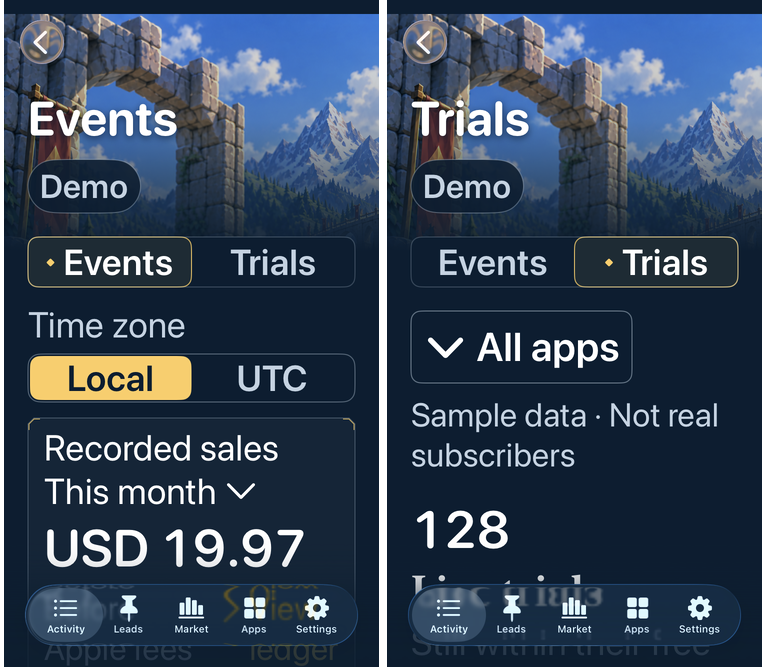
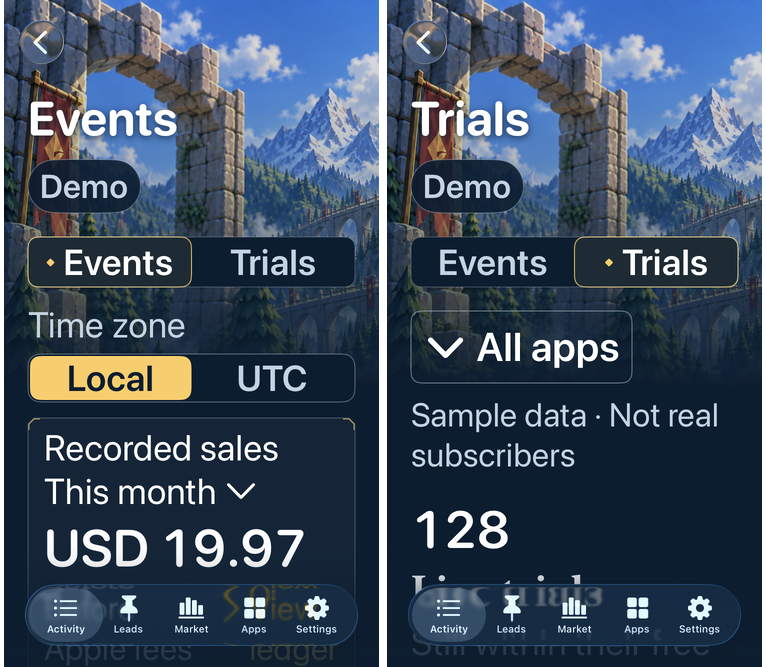
Extend Events and Trials landscape behind system chrome
Draw a shared full-screen scenic background behind the status and navigation bars while keeping controls inside the native safe area. Preserve native back navigation and update default/accessibility simulator captures.

Changed region(s): [[0.0, 0.0, 1.0, 0.5397], [0.7807, 0.4198, 0.8107, 0.4798], [0.1201, 0.5097, 0.1501, 0.5397]]

diff --git a/ios/IAPNotifications/Trials.swift b/ios/IAPNotifications/Trials.swift
@@ -163,7 +163,7 @@ struct TrialsDashboardView: View {
                 ScrollView {
                     VStack(alignment: .leading, spacing: 24) {
                         VStack(alignment: .leading, spacing: 16) {
-                            ActivitySceneHeader(title: "Trials", badge: model.isPreviewMode ? "Demo" : model.selectedEnvironment.rawValue, topSpacing: 16)
+                            ActivitySceneHeader(title: "Trials", badge: model.isPreviewMode ? "Demo" : model.selectedEnvironment.rawValue, topSpacing: 16, showsLandscape: false)
                             ActivitySectionPicker(selection: $section)
                         }
                         filters
@@ -182,13 +182,13 @@ struct TrialsDashboardView: View {
                     }.padding(.horizontal, 24).padding(.bottom, 28)
                 }
                 .refreshable { await trials.load(model) }
-                .background(TrialsStyle.navy.ignoresSafeArea())
+                .background { ActivityPageBackground() }
             }
             .foregroundStyle(.white).tint(TrialsStyle.gold)
             .navigationTitle("")
             .navigationBarTitleDisplayMode(.inline)
             .toolbar(.visible, for: .navigationBar)
-            .toolbarBackground(TrialsStyle.navy, for: .navigationBar)
+            .toolbarBackground(.hidden, for: .navigationBar)
             .toolbarColorScheme(.dark, for: .navigationBar)
             .toolbarBackground(TrialsStyle.navy, for: .tabBar)
             .toolbarBackground(.visible, for: .tabBar)
@@ -462,9 +462,10 @@ struct ActivitySceneHeader: View {
     let badge: String
     var topSafeArea: CGFloat = 0
     var topSpacing: CGFloat = 80
+    var showsLandscape = true
 
     var body: some View {
-        QuestScenicHeader(title: title, topSafeArea: topSafeArea, topSpacing: topSpacing) {
+        QuestScenicHeader(title: title, topSafeArea: topSafeArea, topSpacing: topSpacing, showsLandscape: showsLandscape) {
             Text(badge).font(.caption.weight(.semibold))
                 .foregroundStyle(QuestStyle.muted)
                 .padding(.horizontal, 12).padding(.vertical, 7)
@@ -479,6 +480,7 @@ struct QuestScenicHeader<Trailing: View>: View {
     var systemImage: String? = nil
     var topSafeArea: CGFloat = 0
     var topSpacing: CGFloat = 80
+    var showsLandscape = true
     @ViewBuilder var trailing: Trailing
     @Environment(\.dynamicTypeSize) private var typeSize
 
@@ -503,18 +505,44 @@ struct QuestScenicHeader<Trailing: View>: View {
         .padding(.top, topSpacing + topSafeArea).padding(.bottom, 8)
         .frame(maxWidth: .infinity, alignment: .leading)
         .background {
-            GeometryReader { geometry in
+            if showsLandscape {
+                GeometryReader { geometry in
+                    Image("QuestLandscape").resizable().scaledToFill()
+                        .frame(width: geometry.size.width + 48, height: geometry.size.height + 90, alignment: .top)
+                        .clipped()
+                        .overlay(LinearGradient(stops: [
+                            .init(color: QuestStyle.navy.opacity(0.1), location: 0),
+                            .init(color: QuestStyle.navy.opacity(0.3), location: 0.45),
+                            .init(color: QuestStyle.navy, location: 1)
+                        ], startPoint: .top, endPoint: .bottom))
+                        .offset(x: -24, y: -60)
+                }.allowsHitTesting(false).accessibilityHidden(true)
+            }
+        }
+    }
+}
+
+/// The artwork extends under system chrome; scroll content keeps its native safe area.
+struct ActivityPageBackground: View {
+    @ScaledMetric(relativeTo: .largeTitle) private var landscapeHeight: CGFloat = 260
+
+    var body: some View {
+        GeometryReader { geometry in
+            ZStack(alignment: .top) {
+                QuestStyle.navy
                 Image("QuestLandscape").resizable().scaledToFill()
-                    .frame(width: geometry.size.width + 48, height: geometry.size.height + 90, alignment: .top)
+                    .frame(width: geometry.size.width, height: landscapeHeight, alignment: .top)
                     .clipped()
                     .overlay(LinearGradient(stops: [
                         .init(color: QuestStyle.navy.opacity(0.1), location: 0),
                         .init(color: QuestStyle.navy.opacity(0.3), location: 0.45),
                         .init(color: QuestStyle.navy, location: 1)
                     ], startPoint: .top, endPoint: .bottom))
-                    .offset(x: -24, y: -60)
-            }.allowsHitTesting(false).accessibilityHidden(true)
+            }
         }
+        .ignoresSafeArea()
+        .allowsHitTesting(false)
+        .accessibilityHidden(true)
     }
 }
 

diff --git a/ios/IAPNotifications/IAPNotificationsApp.swift b/ios/IAPNotifications/IAPNotificationsApp.swift
@@ -435,7 +435,7 @@ struct ActivityView: View {
         Group {
             ScrollView {
                 VStack(alignment: .leading, spacing: 16) {
-                    ActivitySceneHeader(title: "Events", badge: model.isPreviewMode ? "Demo" : model.selectedEnvironment.rawValue, topSpacing: 16)
+                    ActivitySceneHeader(title: "Events", badge: model.isPreviewMode ? "Demo" : model.selectedEnvironment.rawValue, topSpacing: 16, showsLandscape: false)
                     ActivitySectionPicker(selection: $section)
                     if !model.isPreviewMode {
                         Picker("Environment", selection: $model.selectedEnvironment) {
@@ -535,14 +535,14 @@ struct ActivityView: View {
                     }
                 }.padding(.horizontal, 24).padding(.bottom, 24)
             }
-            .background(QuestStyle.navy)
+            .background { ActivityPageBackground() }
             .foregroundStyle(.white).tint(QuestStyle.gold)
             .refreshable { await model.loadActivity() }
             .onChange(of: model.selectedEnvironment) { _, _ in Task { await model.loadActivity() } }
             .navigationTitle("")
             .navigationBarTitleDisplayMode(.inline)
             .toolbar(.visible, for: .navigationBar)
-            .toolbarBackground(QuestStyle.navy, for: .navigationBar)
+            .toolbarBackground(.hidden, for: .navigationBar)
             .toolbarColorScheme(.dark, for: .navigationBar)
             .toolbarBackground(QuestStyle.navy, for: .tabBar)
             .toolbarBackground(.visible, for: .tabBar)

diff --git a/design-explorations/events-safe-area/README.md b/design-explorations/events-safe-area/README.md
@@ -1,9 +1,9 @@
 # Events and Trials top spacing
 
-Events and Trials previously added an 80-point scenic-header spacer below the native navigation bar. Both now request 16 points from the same Activity header component. The system continues to own the status-bar safe area and native back bar; no negative content offsets or ignored control safe areas were added. Other scenic headers retain their existing spacing.
+Events and Trials previously added an 80-point scenic-header spacer below the native navigation bar. Both now request 16 points from the same Activity header component. The landscape is now a shared full-screen background that extends behind the status bar and native back button. The navigation bar background is transparent, so no navy strip remains at the top. Only the decorative background ignores the safe area; controls and scrolling content retain the system insets. Other scenic headers retain their existing layout.
 
 Validation: the isolated Debug simulator app compiled successfully. Default and accessibility-3 captures were inspected on the 375 × 667-point iPhone simulator. The page headings and Events/Trials selector align between both screens. Runtime checks passed in both text sizes for the visible native back bar, two-controller back stack, enabled swipe-back gesture, and unchanged queued sales.
 
-Captures: [default](default.png) and [accessibility](accessibility.png); per-page screenshots and check results are in their corresponding folders. These captures include the concurrent local typography updates; the production-source change committed here is limited to top spacing.
+Captures: [default](default.png) and [accessibility](accessibility.png); per-page screenshots and check results are in their corresponding folders. These captures include the concurrent local typography updates; the production-source change committed here is limited to top spacing and the full-screen decorative background.
 
 Reproduce with `python3 design-explorations/events-safe-area/create-preview.py`, build the generated `ios/build/events-safe-area-preview-src/IAPNotifications.xcodeproj`, and launch `com.kozr.quest.eventsinsetpreview`. Append `--large-text` for accessibility text. The demo automatically opens Events then Trials and writes captures/checks to its `tmp/events-safe-area` directory. No upload or deployment was performed.
